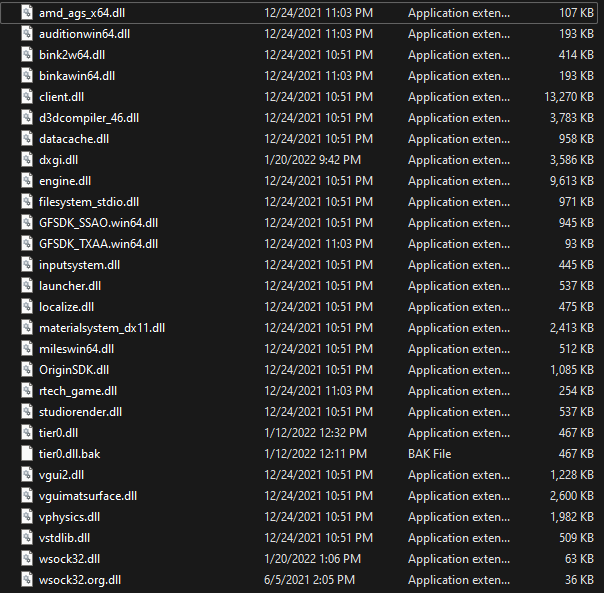
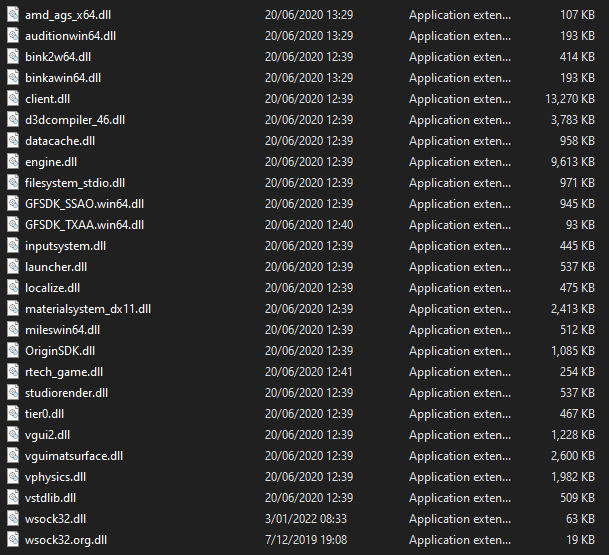
Alternative solution to LSX issue (R2Northstar/NorthstarDocs#41)
* new fix (fixed the issue 3 times before)

* link broke

* clean install bin folder

* Update docs/installing-northstar/troubleshooting.md

Changed region(s): [[0.0, 0.0, 1.0, 1.0]]

diff --git a/docs/docs/installing-northstar/troubleshooting.md b/docs/docs/installing-northstar/troubleshooting.md
@@ -142,3 +142,16 @@ Campaign is not supported in 1.4, but you could do one of these **"_fixes_"**
     - [If you can't open the console](#i-cant-open-the-console)
 2. Adding `-vanilla` to your launch options
     - [How to add launch options](#adding-launch-options)
+
+## Authentication Failed when clicking Launch Northstar
+
+Before trying this check out [this section](#failed-to-initialize-origin-origin-core-seems-to-be-running-but-the-lsx-authentication-challenge-fai).\
+If that didn't work DM `Petar#0389` on Discord and tell him if it did or did not work.\
+Alternative to that fix:
+
+1. Close the game
+2. Open task manager
+3. End Origin (everything origin related)
+4. Launch Origin as admin
+5. Start the game through Origin with `-northstar` in [launch options](#adding-launch-options)
+6. See if that fixed it
